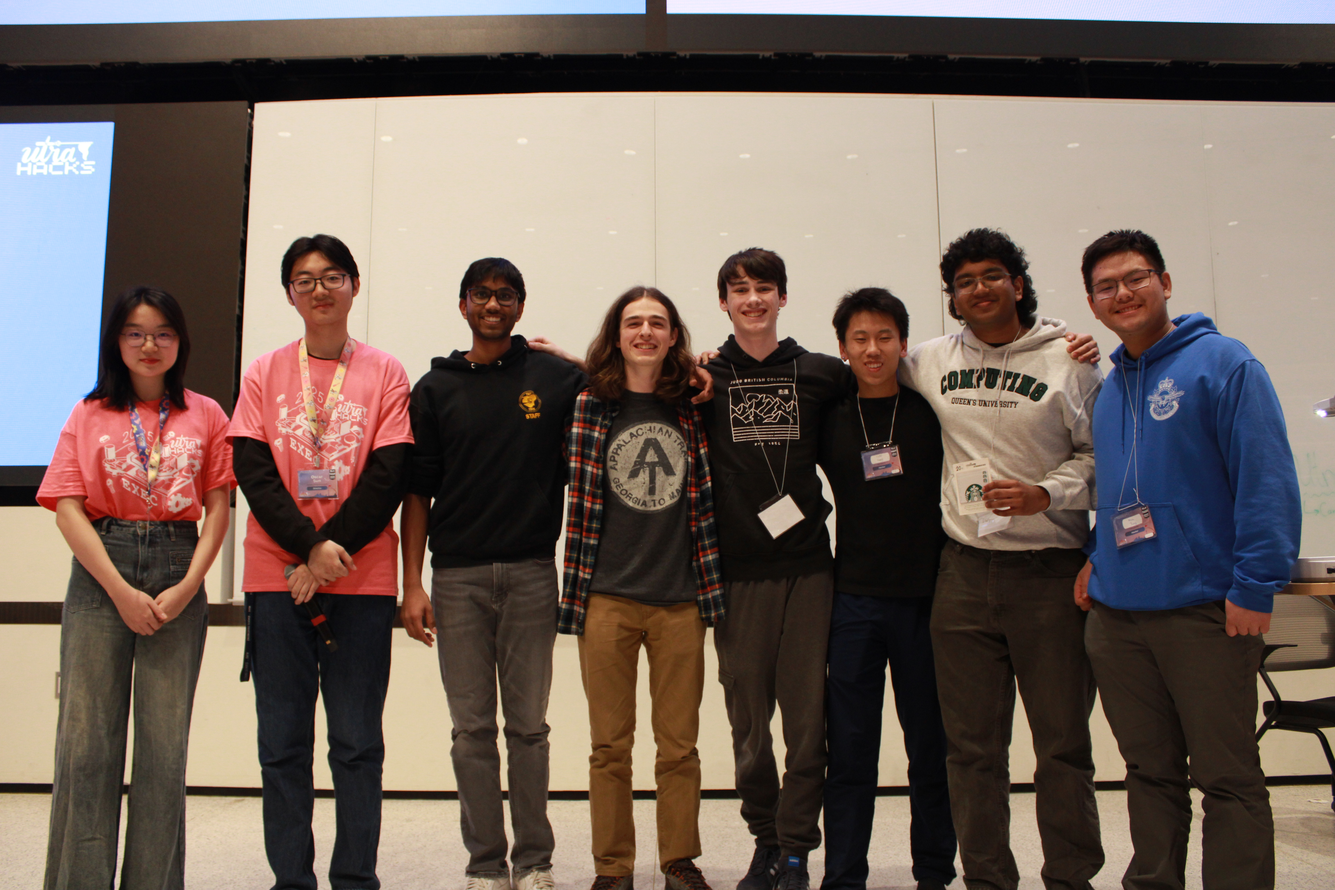
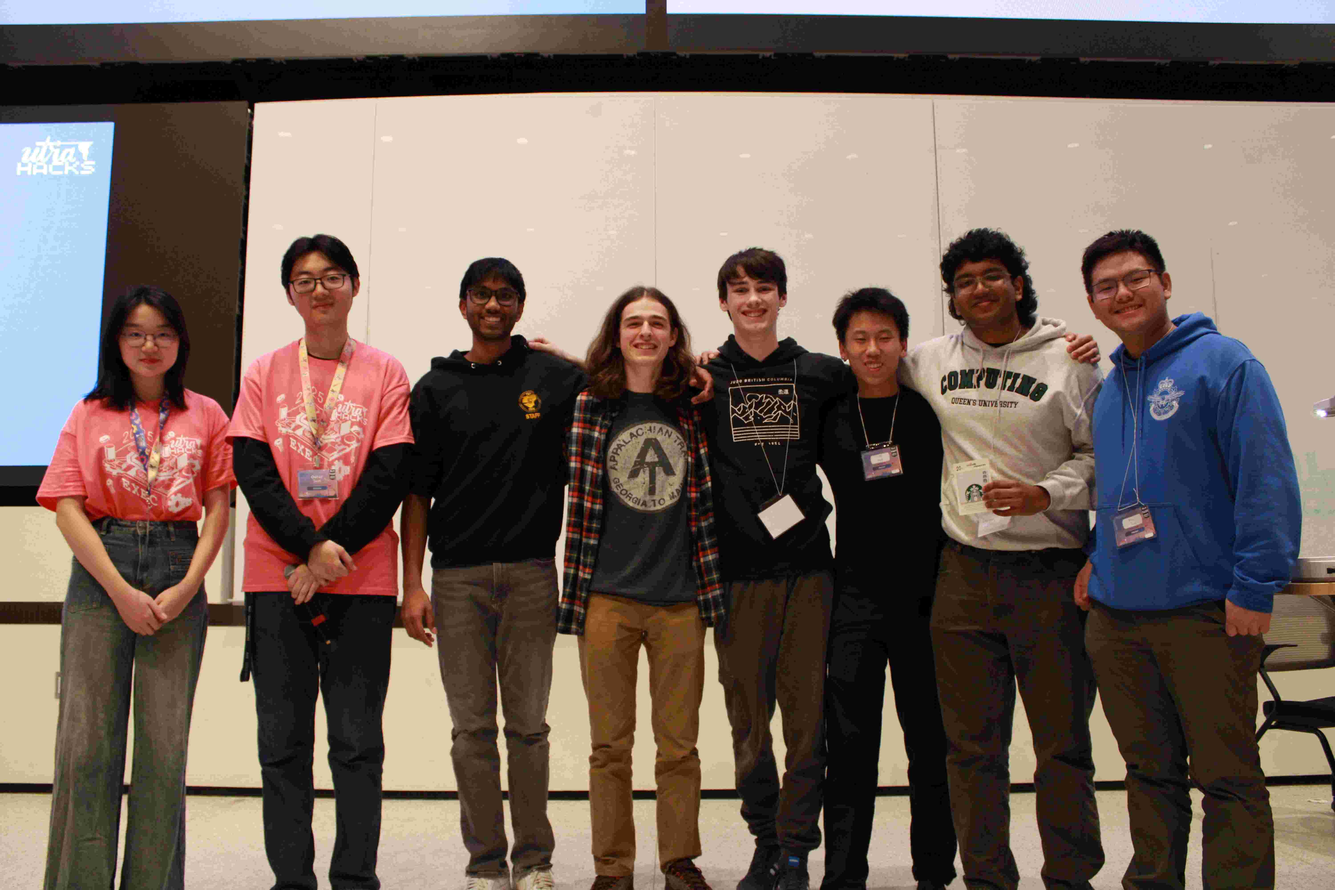
Feat: Reduce image file size for faster loading times

Changed region(s): [[0.561, 0.4375, 0.5922, 0.4688]]

diff --git a/kevin_react/src/markdowns/map.ts b/kevin_react/src/markdowns/map.ts
@@ -42,12 +42,12 @@ export const MapData: Record<string, mapProps>={
     Regina1: {
         position: [50.417970691974766, -104.5848714867367],
         popupText: autoFormat({location: "Regina, SK", time: "2023", teaser: "Regis ??? 🪣 🌊 🥳"}),
-        imageLink: "/public/map/PowerDunking.jpeg",
+        imageLink: "/public/map/PowerDunking.jpg",
     },
     Regina2: {
         position: [50.4374963591256, -104.65357394234996],
         popupText: autoFormat({location: "Regina, SK", time: "2023", teaser: "Me with my instructor Raheem, solo complete 🛩"}),
-        imageLink: "/public/map/PowerSolo.jpeg"
+        imageLink: "/public/map/PowerSolo.jpg"
     },
     Regina3: {
         position: [50.43852811100869, -104.66040356763608],
